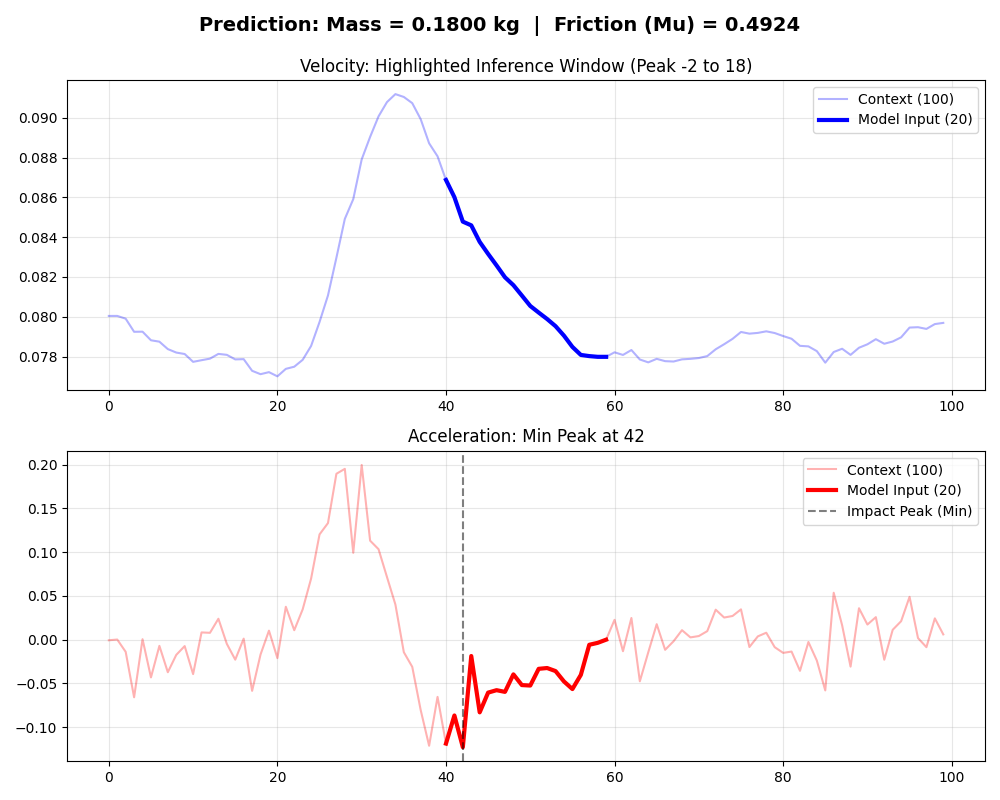
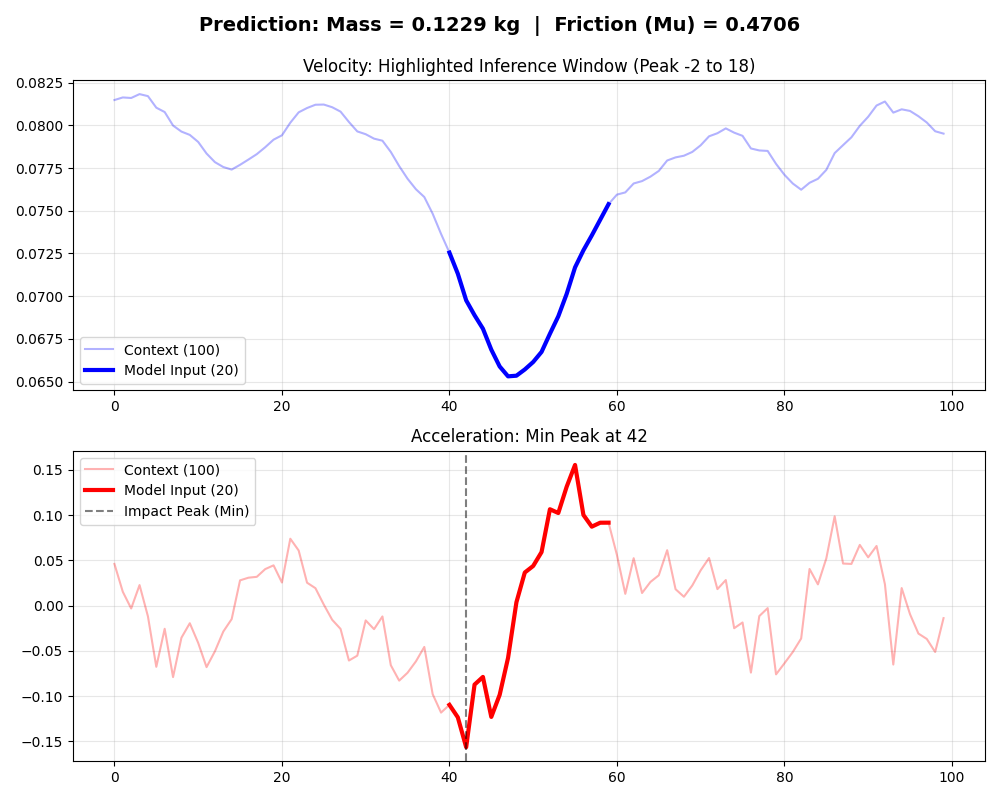
update

diff --git a/push_cube_inference.py b/push_cube_inference.py
@@ -23,10 +23,10 @@ V_DESIRED_BASE = np.array([0.0, 0.08, 0.0, 0.0, 0.0, 0.0])
 PUSH_AXIS_IDX = 1  # 0=X, 1=Y, 2=Z (Must match non-zero element in V_DESIRED)
 
 # Duration parameters
-VELOCITY_DURATION = 5.0 
+VELOCITY_DURATION = 3.0 
 DT = 0.01  # Fixed time step (1/100 Hz)
 
-SMOOTHING_WINDOW = 10
+SMOOTHING_WINDOW = 5
 MODEL_PATH = 'trained_models/transformer_epoch500.pth'
 
 # ==========================================
@@ -183,15 +183,6 @@ def process_and_inference(model, history_vel, history_acc, device):
 
     # --- SAVE CSV (100 Steps) ---
     cwd = ensure_dirs()
-    timestamp = time.strftime("%Y%m%d-%H%M%S")
-    csv_path = os.path.join(cwd, "csv_data", f"inference_context_{timestamp}.csv")
-    
-    # with open(csv_path, mode='w', newline='') as f:
-    #     writer = csv.writer(f)
-    #     writer.writerow(['step_local', 'v_y', 'a_y', 'is_inference_region'])
-    #     for i in range(len(vel_100)):
-    #         is_inf = 1 if (i >= viz_inf_start and i < viz_inf_end) else 0
-    #         writer.writerow([i, vel_100[i, PUSH_AXIS_IDX], acc_100[i, PUSH_AXIS_IDX], is_inf])
     
     # --- INFERENCE ---
     if model is not None:
@@ -254,6 +245,15 @@ def process_and_inference(model, history_vel, history_acc, device):
         plt.savefig(os.path.join(cwd, "vis", filename))
         plt.close()
 
+        csv_path = os.path.join(cwd, "csv_data", f"infe_mest_{mass_est:.3f}_muest_{mu_est:.3f}_w{SMOOTHING_WINDOW}.csv")
+        with open(csv_path, mode='w', newline='') as f:
+            writer = csv.writer(f)
+            writer.writerow(['step_local', 'v_y', 'a_y', 'is_inference_region'])
+            for i in range(len(vel_100)):
+                is_inf = 1 if (i >= viz_inf_start and i < viz_inf_end) else 0
+                writer.writerow([i, vel_100[i, PUSH_AXIS_IDX], acc_100[i, PUSH_AXIS_IDX], is_inf])
+    
+
 
 # ==========================================
 # 4. MAIN LOOP
@@ -299,7 +299,7 @@ def run_push_and_velocity():
         panda.start_controller(ctrl)
         model_robot = panda.get_model()
         
-        with panda.create_context(frequency=100.0) as ctx:
+        with panda.create_context(frequency=1/DT) as ctx:
             start_time = time.time()
             
             while ctx.ok():
